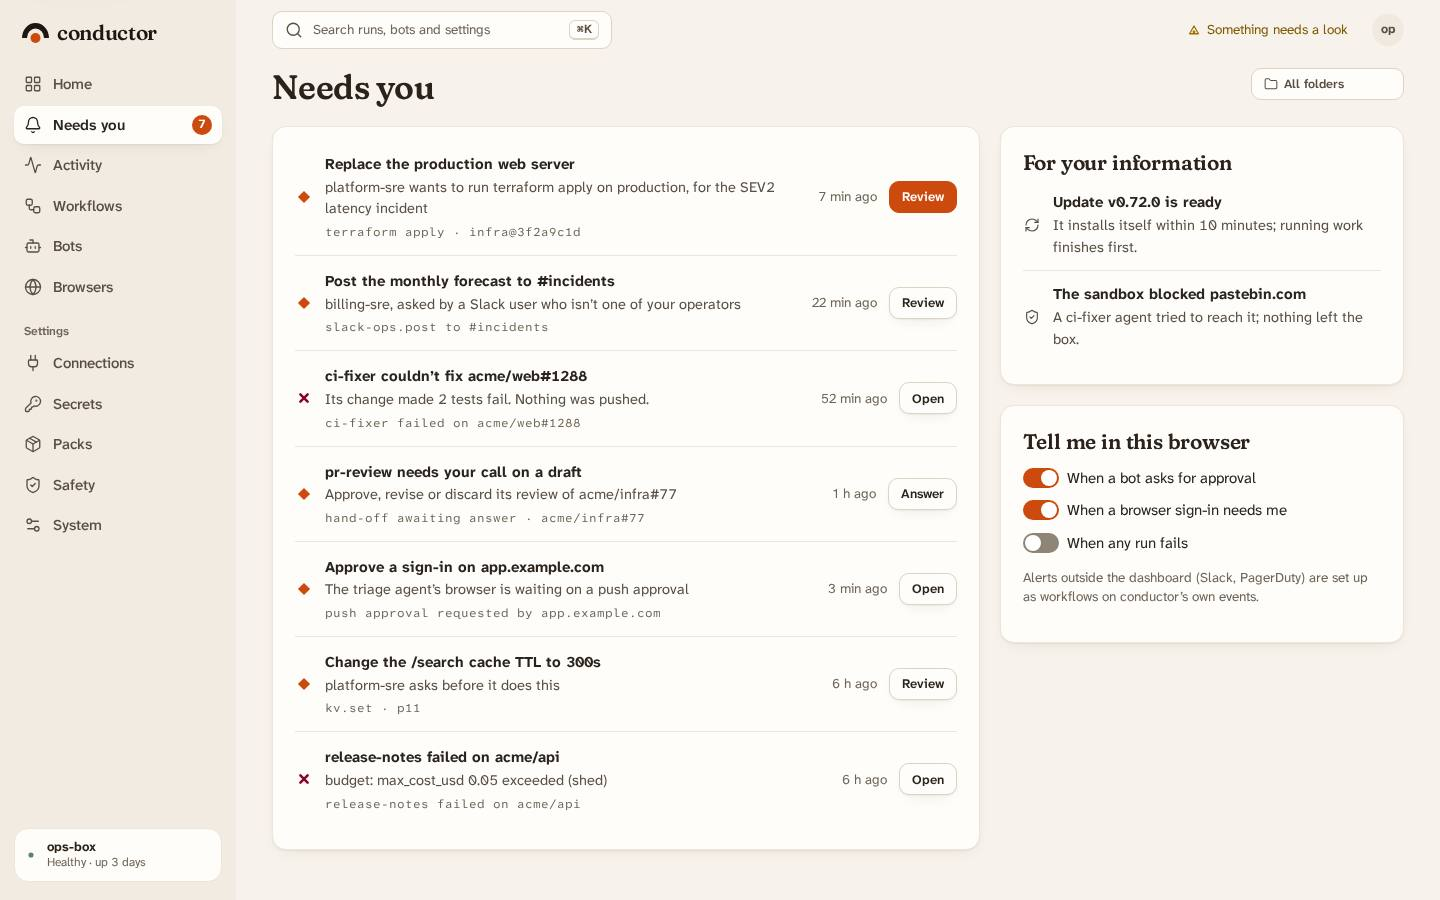
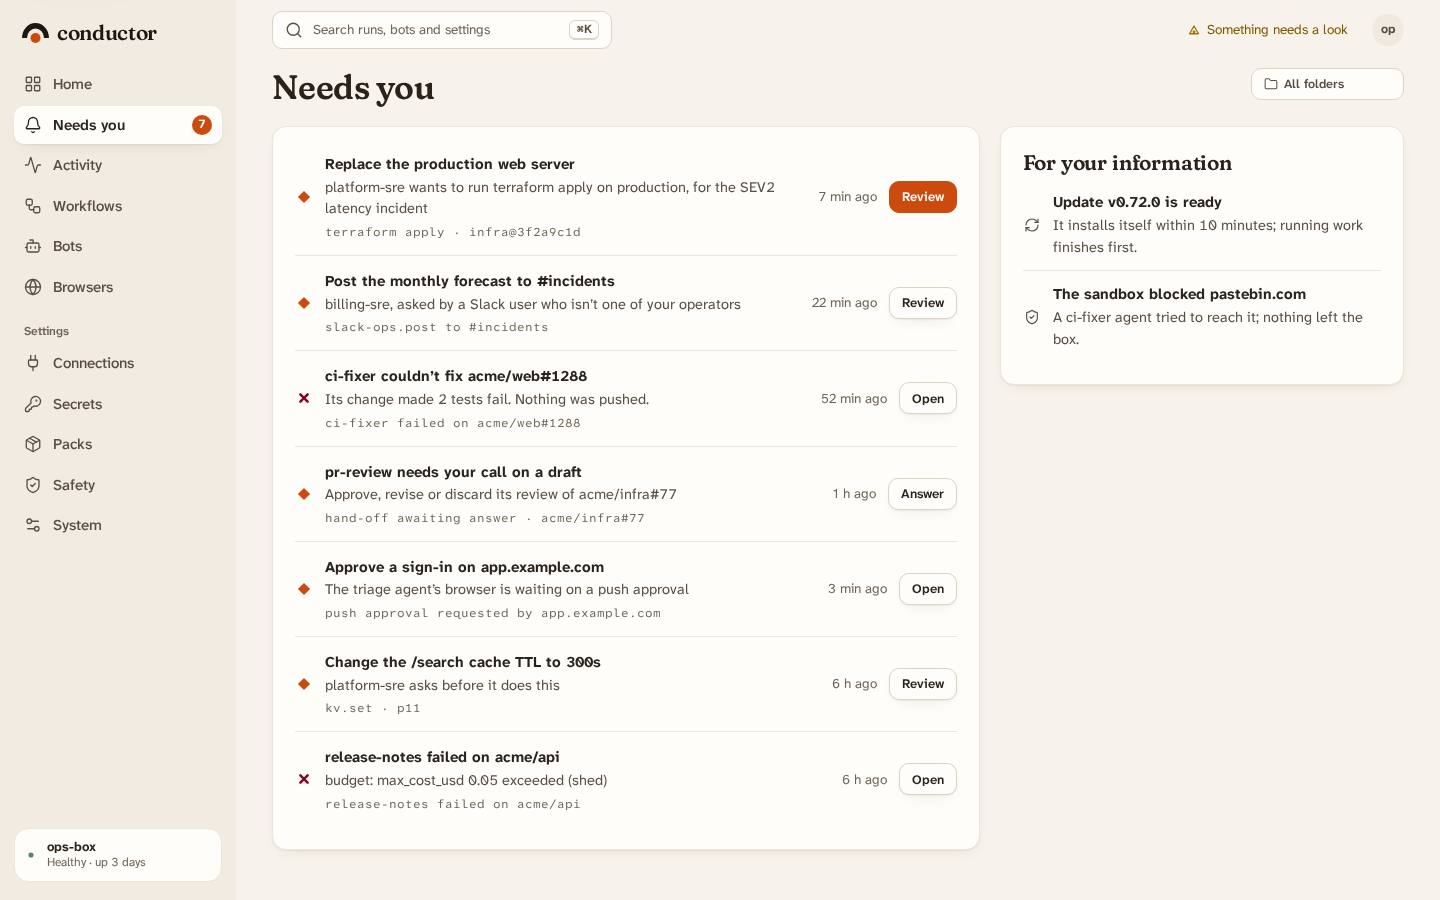
design(dashboard): the status menu opens with how things are and what needs a look (the phone shows only the mark), Pause last; the iPhone spec follows the current top bar; conformance renders refreshed

Changed region(s): [[0.6875, 0.4667, 0.9375, 0.6844]]

diff --git a/design/dashboard-prototype/js/ui.js b/design/dashboard-prototype/js/ui.js
@@ -506,9 +506,13 @@
   UI.switchBtn = (on, act, attrs = '') => `<button type="button" role="switch" class="switch${on ? ' on' : ''}" aria-checked="${!!on}" data-act="${act}" ${attrs}></button>`;
   UI.act('strip-status', (b) => { const d = D.daemon, u = d.update || {}, running = D.runs.filter((r) => r.status === 'run').length;
     // an available update is said quietly here; it only escalates (in the top bar) when it needs a person
-    UI.menu(b, [[d.paused ? 'Resume dispatch…' : 'Pause dispatch…', d.paused ? 'play' : 'pause', 'pause'], ['-'],
+    // first how things are (on a phone the top bar shows only the mark), with the cause one tap away; Pause, rarely
+    // wanted, comes last
+    const bad = D.connectors.filter((c) => !['ok', 'idle'].includes(c.status));
+    const how = d.paused ? ['Dispatch is paused: nothing new starts', 'pause', 'strip-go', 'data-href="#/activity"'] : bad.length ? [`${bad[0].name} needs a look: ${bad[0].detail}${bad.length > 1 ? ` (and ${bad.length - 1} more)` : ''}`, 'warn', 'strip-go', 'data-href="#/connectors"'] : ['All systems normal', 'check', 'strip-go', 'data-href="#/connectors"'];
+    UI.menu(b, [how, ['-'],
       u.available ? [u.blocked ? `${u.available} is waiting for you: ${u.blocked}` : `${u.available} installs itself within 10 min`, 'updates', 'strip-go', 'data-href="#/updates"'] : [`conductor ${d.version}, up to date`, 'updates', 'strip-go', 'data-href="#/updates"'],
-      [`The sandbox is on: see what bots may do`, 'shield', 'strip-go', 'data-href="#/safety"'], [`${running} running now`, 'live', 'strip-go', 'data-href="#/activity?status=run"'], ...(D.pending.length ? [[`${D.pending.length} change${D.pending.length > 1 ? 's' : ''} to review`, 'edit', 'strip-go', 'data-href="#/config/apply"']] : [])]); });
+      [`The sandbox is on: see what bots may do`, 'shield', 'strip-go', 'data-href="#/safety"'], [`${running} running now`, 'live', 'strip-go', 'data-href="#/activity?status=run"'], ...(D.pending.length ? [[`${D.pending.length} change${D.pending.length > 1 ? 's' : ''} to review`, 'edit', 'strip-go', 'data-href="#/config/apply"']] : []), ['-'], [d.paused ? 'Resume dispatch…' : 'Pause dispatch…', d.paused ? 'play' : 'pause', 'pause']]); });
   /** Demo data (prototype only): which fake day to show, chosen per browser (js/scenario.js), or reset the current one. */
   UI.DEMOS = [['calm', 'A mostly healthy day', 'Dozens of runs; one approval and one failure need you'], ['quiet', 'All quiet', 'Nothing needs you; every system healthy'], ['full', 'Everything at once', 'Every kind of exception, to try each flow']];
   UI.setDemo = (k) => { try { localStorage.setItem('cd-demo', k); localStorage.removeItem('cd-proto-state-v5'); } catch (e) {} location.reload(); };

diff --git a/design/dashboard-tests/iphone.spec.js b/design/dashboard-tests/iphone.spec.js
@@ -36,13 +36,13 @@ test.describe('iPhone (WebKit): one theme, nothing too wide, nothing under the t
       expect(await page.evaluate(primaries), `primary actions covered on ${route}`).toEqual([]);
     });
   }
-  test('the strip collapses to the status dot and the needs-you count; the rest is one tap away', async ({ page }) => {
+  test('the strip collapses to the status mark and your menu; the rest is one tap away', async ({ page }) => {
     await go(page, '#/overview', { fresh: true });
     await expect(page.locator('.strip .logo-mark path').first()).toBeAttached(); // the logo mark renders (from assets/logo/mark.svg)
     const shown = await page.locator('.strip .cell').evaluateAll((els) => els.filter((e) => getComputedStyle(e).display !== 'none').map((e) => e.className));
-    expect(shown.map((c) => c.split(' ').pop())).toEqual(['status-btn', 'alert']);
+    expect(shown.map((c) => c.split(' ').pop())).toEqual(['status-btn', 'op-btn']) // the status mark (its word is in its menu) and your menu;
     await page.locator('.strip .status-btn').tap();
-    await expect(page.locator('#pop-menu')).toContainText('Sandbox enforcing');
+    await expect(page.locator('#pop-menu')).toContainText('The sandbox is on');
     await page.locator('#pop-menu [data-href="#/safety"]').tap();
     await expect(page).toHaveURL(/#\/safety/);
   });
